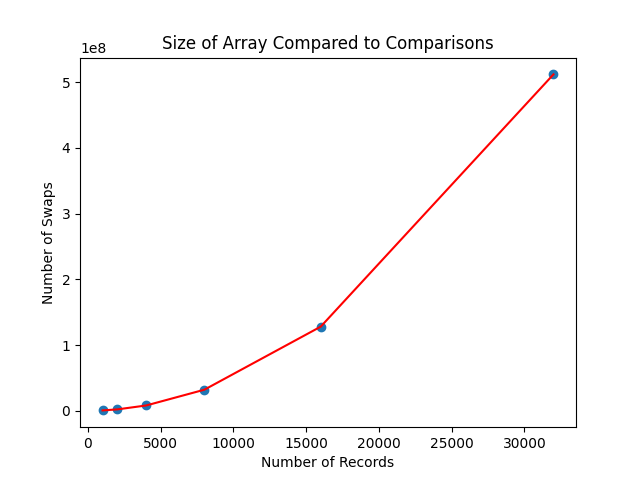
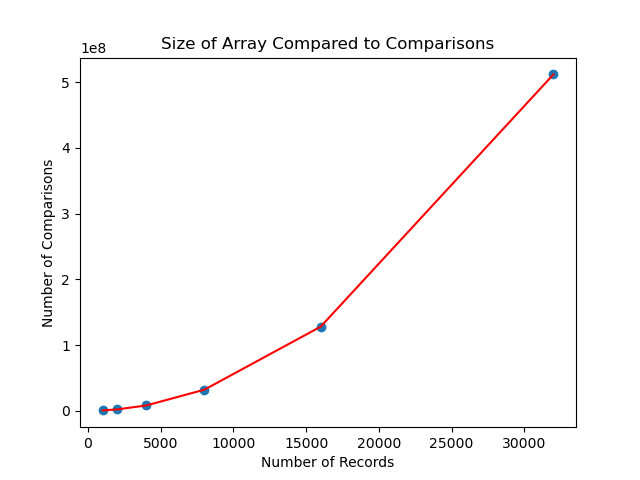
exercise 3 updates

diff --git a/ex3.py b/ex3.py
@@ -25,7 +25,7 @@ vector_sizes = [1000, 2000, 4000, 8000, 16000, 32000]
 swapList = []
 comparisonsList = []
 for size in vector_sizes:
-    arr = [random.randint(1, size*10) for _ in range(size)]  # Create a sorted vector
+    arr = [random.randint(1, size*10) for _ in range(size)]  # Create a random vector
     swap, comparison = bubble_sort(arr)
 
     swapList.append(swap)
@@ -53,6 +53,6 @@ plt.plot(vector_sizes, linevalues, 'r')
 
 # Save the plot to a file named output.3.2.png
 plt.xlabel('Number of Records')
-plt.ylabel('Number of Swaps')
+plt.ylabel('Number of Comparisons')
 plt.title('Size of Array Compared to Comparisons')
 plt.savefig('output.3.4.2.png')
